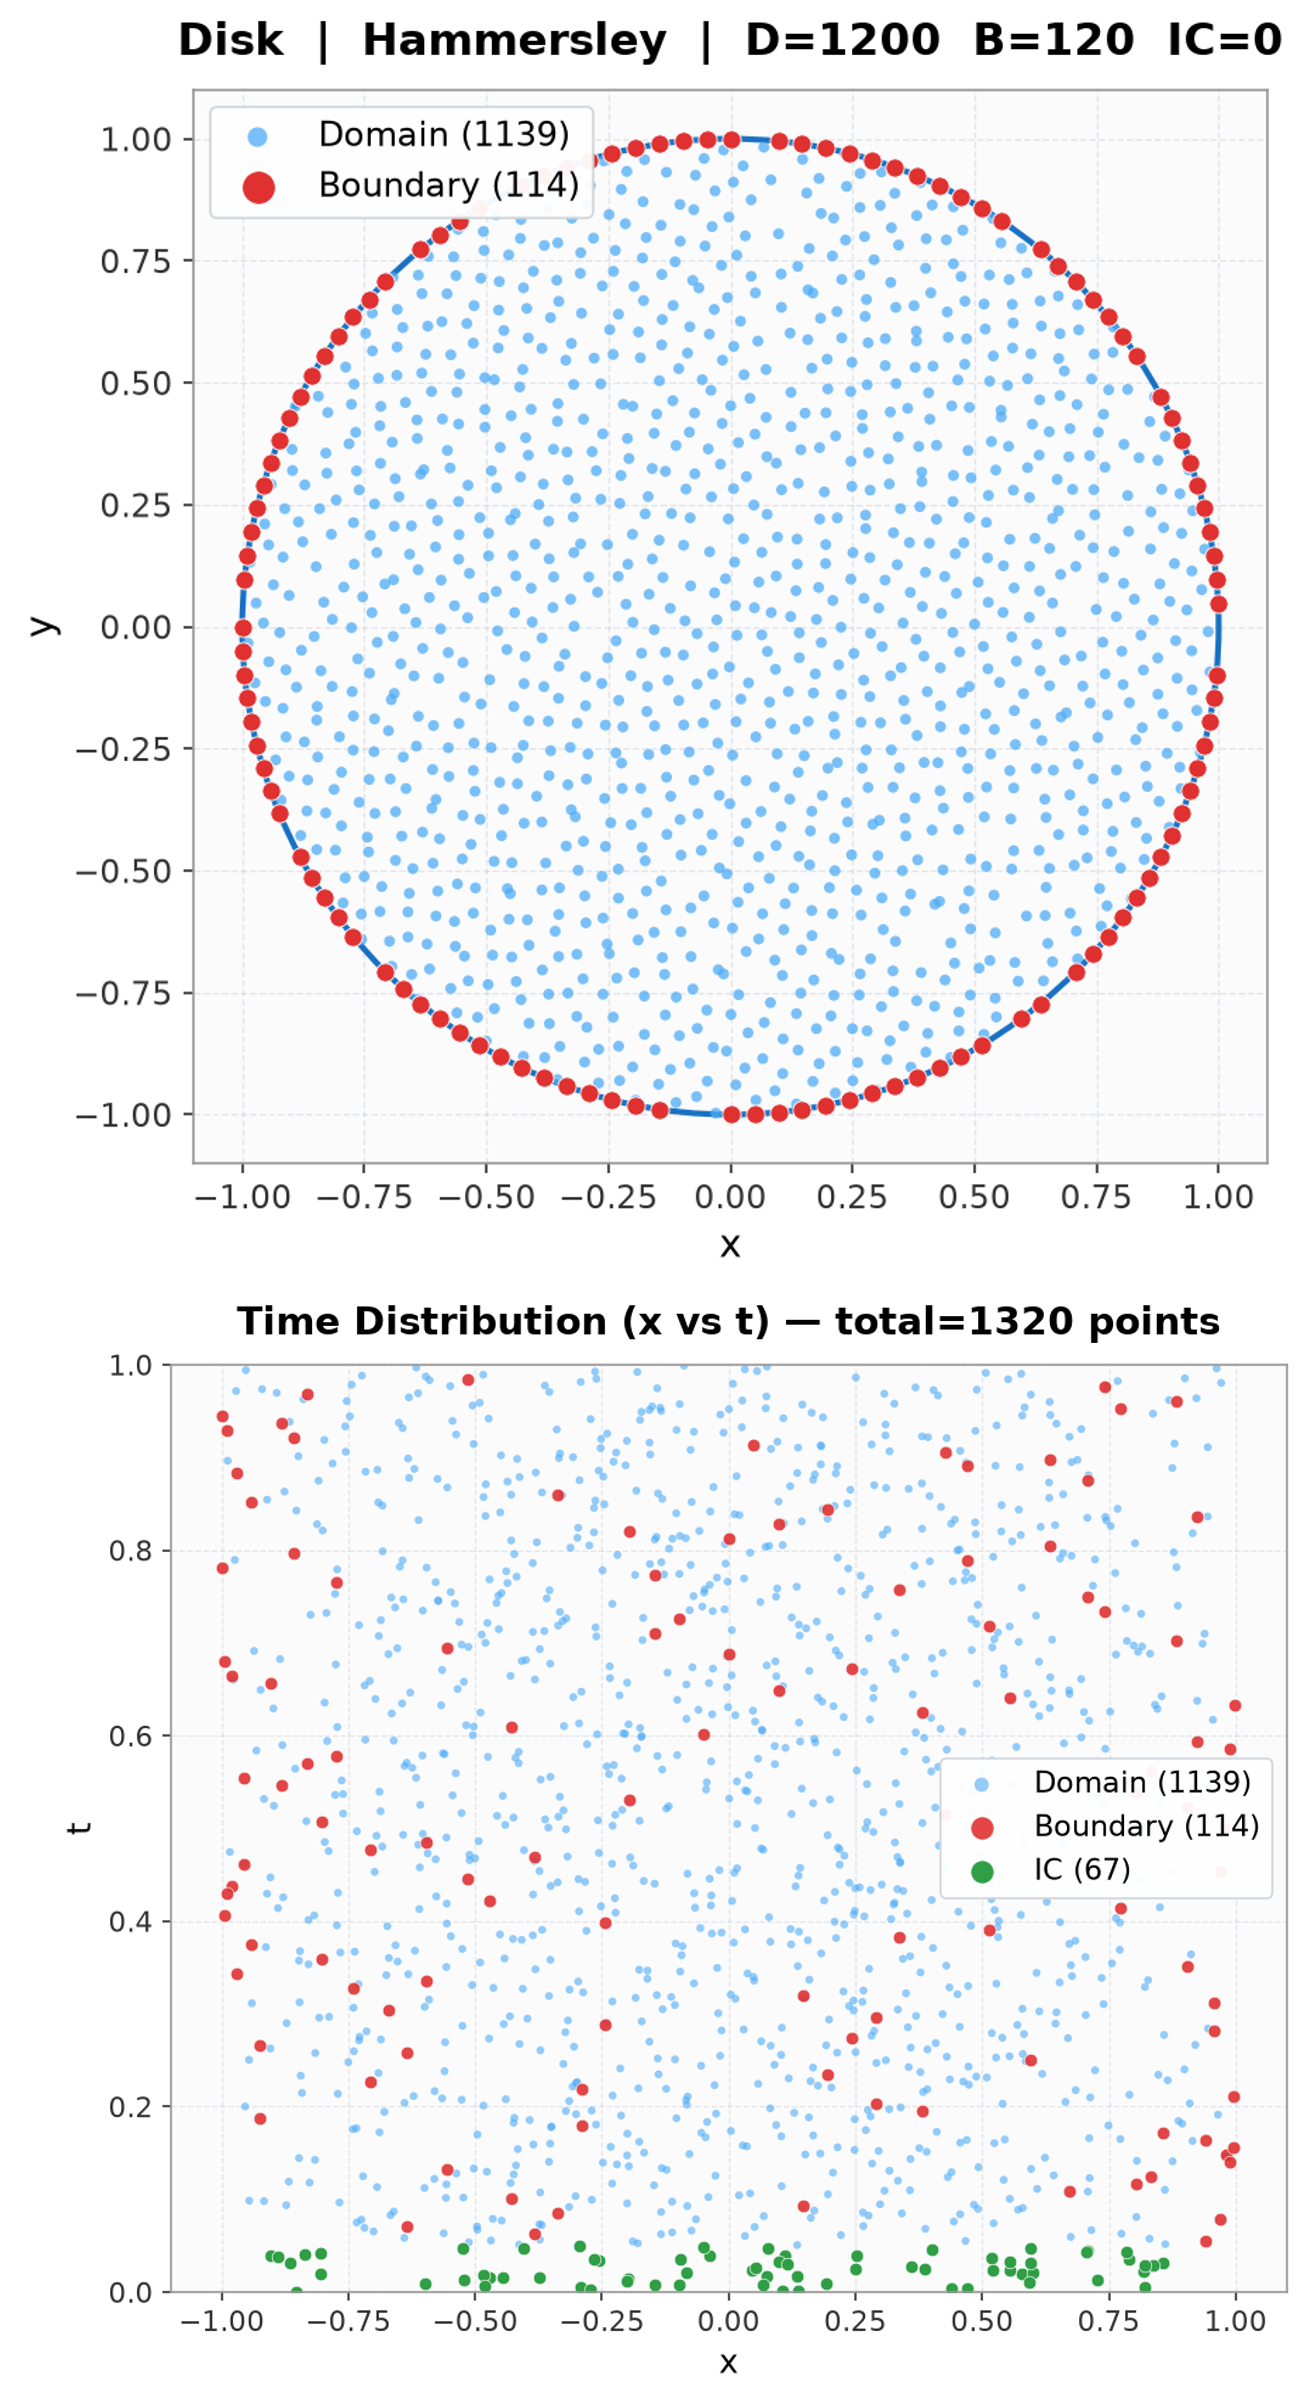
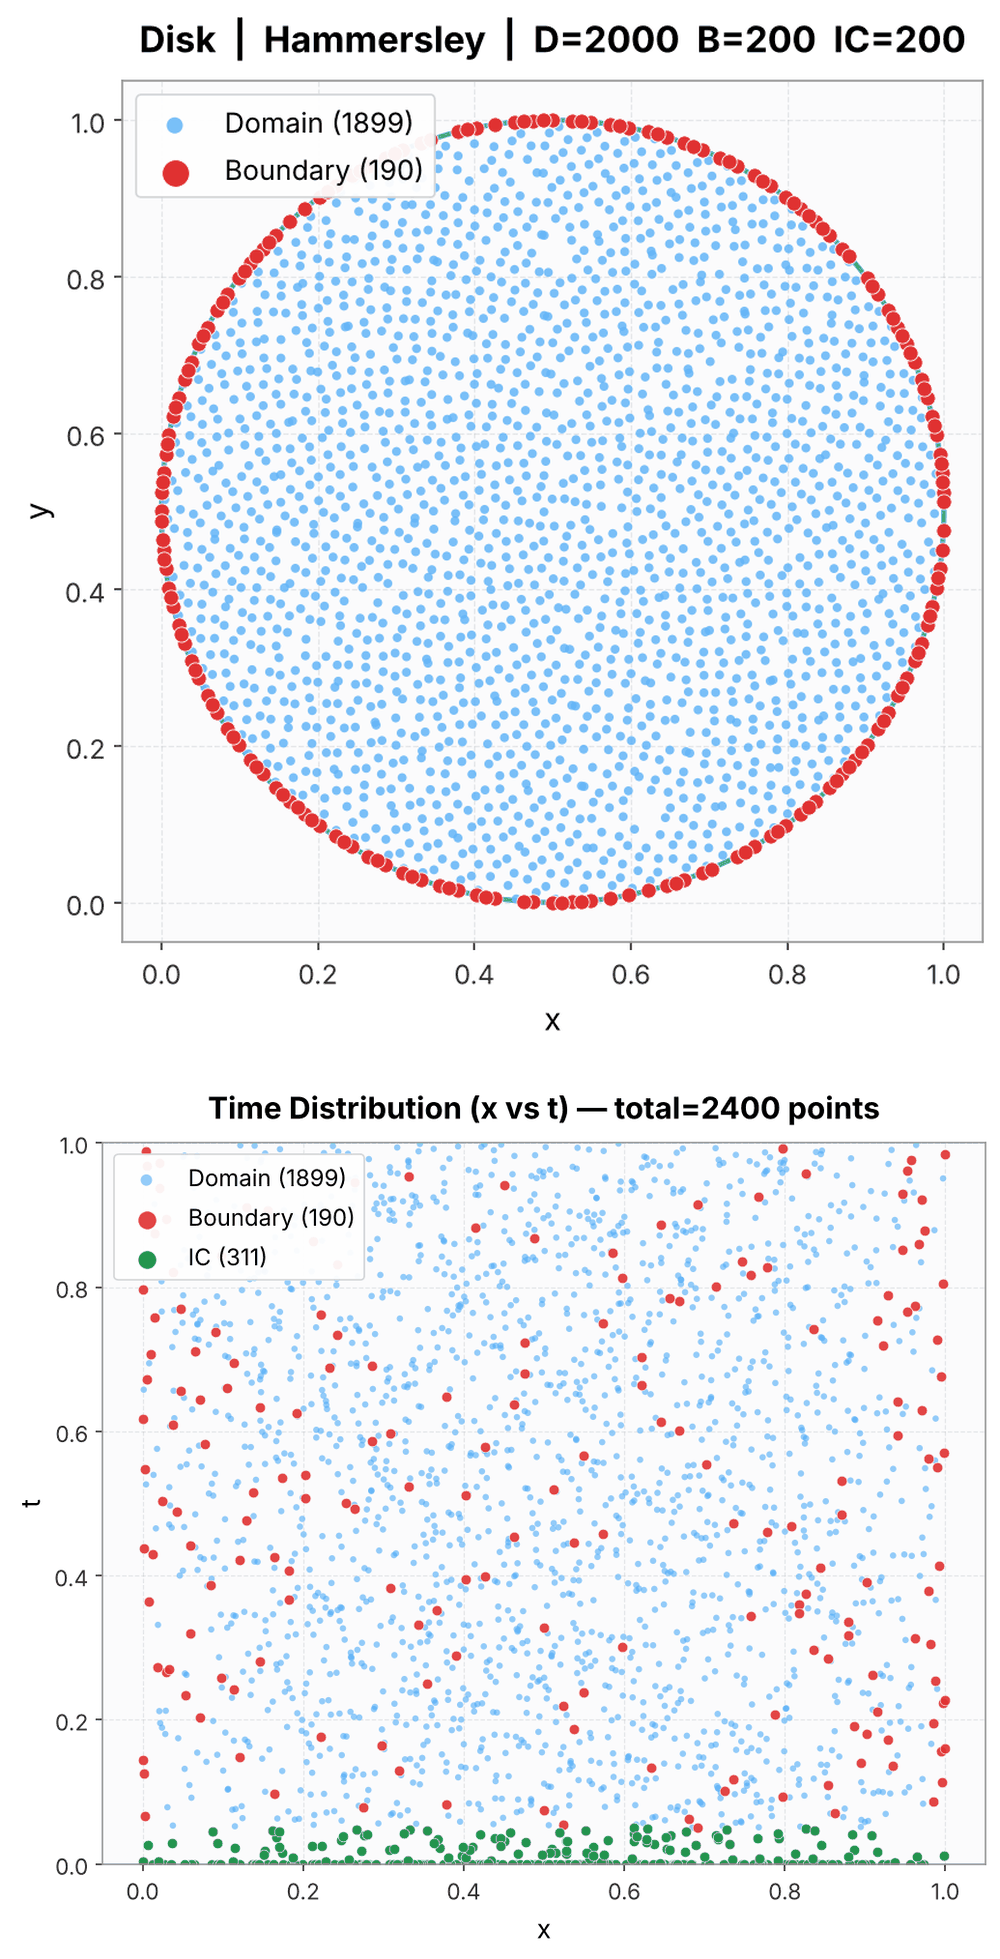
README and website: one Geometry section (built-in shapes, 2D and 3D Sketch, imported drawing, edges and BCs) with new screenshots; point-preview images retaken; 3D selection box says Faces; edge selection label uses the row's width

Changed region(s): [[0.062, 0.0, 0.992, 0.9964], [0.031, 0.2491, 0.062, 0.2802]]

diff --git a/docs/index.html b/docs/index.html
@@ -263,6 +263,16 @@
       </div>
       <div class="shot-pair">
         <figure class="shot dark">
+          <img src="assets/sketch_3d.png" alt="3D Sketch: two boxes with a spherical hole sliced at z = 0.5, faces listed and coloured by boundary condition" loading="lazy">
+          <figcaption><b>Sketch in 3D.</b> Boxes and spheres on three views; every face is numbered and listed, ready for a boundary condition.</figcaption>
+        </figure>
+        <figure class="shot dark">
+          <img src="assets/sketch_import.png" alt="An SVG bracket drawing imported into the Sketch with boundary conditions on its holes" loading="lazy">
+          <figcaption><b>Import a drawing.</b> A DXF or SVG outline comes in with its holes and arcs as edges.</figcaption>
+        </figure>
+      </div>
+      <div class="shot-pair">
+        <figure class="shot dark">
           <img src="assets/error_analysis.png" alt="Error analysis tab: relative L2 and mean absolute error at each reference time with comparison figures" loading="lazy">
           <figcaption><b>Error analysis.</b> The error at each reference time, with the comparison figures — copy the table into a spreadsheet or export it as CSV.</figcaption>
         </figure>

diff --git a/pinnstudio/ui/sketch_canvas.py b/pinnstudio/ui/sketch_canvas.py
@@ -892,7 +892,7 @@ class SketchPanel(QWidget):
         self.edge_sel_label = QLabel("No edge selected")
         self.edge_sel_label.setMinimumWidth(100)
         self.edge_sel_label.setWordWrap(True)
-        r1.addWidget(self.edge_sel_label)
+        r1.addWidget(self.edge_sel_label, 1)
         self.new_bc_btn = QPushButton("＋ New BC on selected")
         self.new_bc_btn.setToolTip("Add a Boundary Conditions row (Dirichlet, value 0) whose Where: picks "
                                    "the selected edges; set its type and value in the panel on the left")

diff --git a/pinnstudio/ui/main_window.py b/pinnstudio/ui/main_window.py
@@ -1230,6 +1230,8 @@ class MainWindow(QMainWindow):
             other.set_active_bc(None)
         other.edge_bar.setVisible(False)
         gp.edge_bar.setVisible(gp.canvas.tool == "Edges" and self._has_domain_graphics())
+        self.sketch_selection_box.setTitle("Faces picked in the sketch" if gp.canvas.dim == 3
+                                           else "Edges picked in the sketch")
         if active is None:
             if gp.active_bc is not None:
                 gp.set_active_bc(None)

diff --git a/README.md b/README.md
@@ -2089,47 +2089,57 @@ Initial conditions are given per output as an expression or loaded from a data f
 </details>
 
 <details>
-<summary><strong>Geometry and domains</strong></summary>
+<summary><strong>Geometry, the Sketch and boundary edges</strong></summary>
 
-1D problems use an interval; 2D problems a **Rectangle, Disk, Ellipse, Triangle** or any **Polygon** (given by its vertices); 3D problems a **Cuboid** or **Sphere**. Domain bounds accept expressions such as `pi/2`.
+1D problems use an interval; 2D problems a **Rectangle, Disk, Ellipse, Triangle** or any **Polygon** (given by its vertices); 3D problems a **Cuboid** or **Sphere**. Bounds accept expressions such as `pi/2`, and **Custom** geometry combines any number of shapes with **Union**, **Subtract** and **Intersect**.
 
-**Custom** geometry (2D and 3D) combines any number of these shapes with **Union**, **Subtract** and **Intersect** — for example a plate with a hole, a `Rectangle` with a `Disk` subtracted:
+A domain can also be **sketched** (*Geometry → Shape → Sketch*): rectangles, circles, ellipses and polygons drawn on a grid in 2D, boxes and spheres on x–y, x–z or y–z views in 3D, each added, cut out or intersected. Shapes can be typed exactly (`0, 0, 2, 1` for a rectangle, `0.6, 0.5, 0.25` for a circle), imported from a **DXF or SVG** drawing (outlines inside others become holes, arcs stay arcs), moved, deleted, and undone with Ctrl+Z / Ctrl+Y. A sketch is stored as ordinary Custom-geometry rows, so it is saved with the problem and exported like any other domain.
 
-<p align="center">
-<img src="assets/Images/View_Domain_Pictures/Custom_Geometry_Rectangle_minus_Disk.png" alt="PINNStudio — Custom geometry domain preview, Rectangle with a Disk subtracted out" width="55%">
-</p>
+Every 2D and 3D domain is drawn next to the settings with its boundary split into numbered **edges** (faces in 3D) — the straight sides and arcs that actually bound it — each coloured by the boundary condition that uses it. Select a boundary condition in the model tree and click edges to add them to it or take them out: its *Where* is written for you (`np.isclose(x, 0) and 0 <= y <= 1`, `abs(np.hypot(x - 0.6, y - 0.5) - 0.25) < 3e-05`, ...) and works the same in the exported script.
 
-Every 2D and 3D domain is drawn in the **Geometry** tab next to the settings, with its boundary split into numbered edges (faces in 3D) coloured by the boundary condition that uses them.
-
-</details>
-
-<details>
-<summary><strong>Sketch a domain, and pick boundary conditions on it</strong></summary>
-
-With *Geometry → Shape → Sketch*, the domain is drawn on a grid: rectangles, circles, ellipses and polygons in 2D (boxes and spheres on x–y, x–z or y–z views in 3D), each added to the domain, cut out of it, or intersected with it. Shapes can also be typed exactly (`0, 0, 2, 1` for a rectangle, `0.6, 0.5, 0.25` for a circle), imported from a **DXF or SVG** drawing (outlines inside others become holes), moved, deleted, and undone or redone with Ctrl+Z / Ctrl+Y.
-
-The boundary of the drawn domain is split into numbered edges — the straight sides and the arcs that actually bound it. Selecting a boundary condition in the model tree lets you click edges to add them to it or take them out; its *Where* is written for you (`np.isclose(x, 0) and 0 <= y <= 1`, `abs(np.hypot(x - 0.6, y - 0.5) - 0.25) < 3e-05`, ...) and works the same in the exported script. The sketch becomes ordinary Custom-geometry rows, so it is saved with the problem.
+<table>
+<tr>
+<td width="50%" align="center">
+<img src="assets/screenshots/geometry_tab.png" alt="Geometry tab: an L-shaped polygon with its six edges numbered and coloured by three boundary conditions" width="100%">
+<sub><strong>Built-in shape</strong> — an L-shaped polygon, two re-entrant edges picked for BC 3</sub>
+</td>
+<td width="50%" align="center">
+<img src="assets/screenshots/sketch_2d.png" alt="2D Sketch: a rectangle with a circular and an elliptical hole, four boundary conditions on its edges" width="100%">
+<sub><strong>2D Sketch</strong> — a plate with two holes, the holes' arcs as their own edges</sub>
+</td>
+</tr>
+<tr>
+<td width="50%" align="center">
+<img src="assets/screenshots/sketch_3d.png" alt="3D Sketch: two boxes with a spherical hole seen in a slice at z = 0.5, its faces listed and coloured by boundary condition" width="100%">
+<sub><strong>3D Sketch</strong> — boxes and a spherical hole, sliced at z = 0.5, every face in the list</sub>
+</td>
+<td width="50%" align="center">
+<img src="assets/screenshots/sketch_import.png" alt="An SVG drawing of a bracket imported into the Sketch: outline with a notch, two bolt holes and a slot, boundary conditions on the bottom edge and the holes" width="100%">
+<sub><strong>Imported drawing</strong> — an SVG bracket: its notch, bolt holes and slot come in as edges</sub>
+</td>
+</tr>
+</table>
 
 </details>
 
 <details>
 <summary><strong>Collocation points and domain preview</strong></summary>
 
-The numbers of domain, boundary, initial and test points are set independently, along with the sampling distribution (Hammersley, uniform, Halton, LHS, Sobol or pseudo-random). A domain preview shows the actual training points — domain, boundary and initial points, color-coded — on the geometry, with a second panel showing their distribution in time, in 2D and in 3D:
+The numbers of domain, boundary, initial and test points are set independently, along with the sampling distribution (Hammersley, uniform, Halton, LHS, Sobol or pseudo-random). For a 2D or 3D domain, *View domain & point distribution* (on the Collocation points page) shows the actual training points — domain, boundary and initial points, colour-coded — on the geometry, with a second panel showing their spread in time:
 
 <table>
 <tr>
 <td width="33%" align="center">
 <img src="assets/Images/View_Domain_Pictures/2D_Rectangle_combined.png" alt="PINNStudio — 2D domain preview, Rectangle geometry" width="100%">
-<sub>2D preview — Rectangle</sub>
+<sub>Rectangle — Hammersley sampling</sub>
 </td>
 <td width="33%" align="center">
 <img src="assets/Images/View_Domain_Pictures/2D_Disk_combined.png" alt="PINNStudio — 2D domain preview, Disk geometry" width="100%">
-<sub>2D preview — Disk</sub>
+<sub>Disk</sub>
 </td>
 <td width="33%" align="center">
 <img src="assets/Images/View_Domain_Pictures/3D_Cuboid_combined.png" alt="PINNStudio — 3D domain preview, Cuboid geometry" width="100%">
-<sub>3D preview — Cuboid</sub>
+<sub>Cuboid (3D)</sub>
 </td>
 </tr>
 </table>
